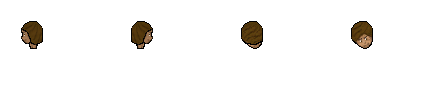
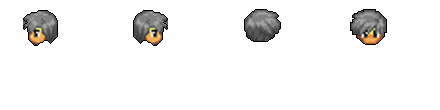
animations and sprites added

diff --git a/game/models/duke.js b/game/models/duke.js
@@ -4,9 +4,9 @@ function Duke(game){
 	this.headSprite = null;
 	this.torsoSprite = null;
 	this.legsSprite = null;
-	this.head = 'singleHead';
-	this.torso = 'singleTorso';
-	this.legs = 'singleLegs';
+	this.head = 'normalHead';
+	this.torso = 'normalTorso';
+	this.legs = 'normalLegs';
 	this.speed = 150;
 	this.facing = 0; //Left=0; Right=1; Up=2; Down=3
 	this.sprite = null;
@@ -54,7 +54,7 @@ Duke.prototype.handleKeyDown = function() {
 		this.torsoSprite.play('normalTorsoUp');
 		this.legsSprite.play('normalLegsUp');
 	}
-	if (this.game.cursors.down.isDown){
+	else if (this.game.cursors.down.isDown){
 		this.facing = 3;
 		this.isMoving = true;
 
@@ -67,7 +67,7 @@ Duke.prototype.handleKeyDown = function() {
 		this.torsoSprite.play('normalTorsoDown');
 		this.legsSprite.play('normalLegsDown');
 	}
-	if (this.game.cursors.left.isDown){
+	else if (this.game.cursors.left.isDown){
 		this.facing = 0;
 		this.isMoving = true;
 
@@ -80,7 +80,7 @@ Duke.prototype.handleKeyDown = function() {
 		this.torsoSprite.play('normalTorsoLeft');
 		this.legsSprite.play('normalLegsLeft');
 	}
-	if (this.game.cursors.right.isDown){
+	else if (this.game.cursors.right.isDown){
 		this.facing = 1;
 		this.isMoving = true;
 
@@ -92,21 +92,21 @@ Duke.prototype.handleKeyDown = function() {
 		this.headSprite.play('normalHeadRight');
 		this.torsoSprite.play('normalTorsoRight');
 		this.legsSprite.play('normalLegsRight');
-	} if (!this.isMoving) {
-		this.headSprite.animations.stop();
-		this.torsoSprite.animations.stop();
-		this.legsSprite.animations.stop();
-
+	} else if (!this.isMoving) {
+		// this.headSprite.animations.stop();
+		// this.torsoSprite.animations.stop();
+		// this.legsSprite.animations.stop();
+		//Left=0; Right=1; Up=2; Down=3
 		switch (this.facing) {
 			case 0:
 				this.headSprite.frame = 0;
-				this.torsoSprite.frame = 0;
-				this.legsSprite.frame = 0;
+				this.torsoSprite.frame = 9;
+				this.legsSprite.frame = 9;
 				break;
 			case 1:
 				this.headSprite.frame = 1;
-				this.torsoSprite.frame = 0;
-				this.legsSprite.frame = 0;
+				this.torsoSprite.frame = 3;
+				this.legsSprite.frame = 3;
 				break;
 			case 2:
 				this.headSprite.frame = 2;
@@ -115,8 +115,8 @@ Duke.prototype.handleKeyDown = function() {
 				break;
 			case 3:
 				this.headSprite.frame = 3;
-				this.torsoSprite.frame = 0;
-				this.legsSprite.frame = 0;
+				this.torsoSprite.frame = 6;
+				this.legsSprite.frame = 6;
 				break;
 			default:
 		}
@@ -160,35 +160,35 @@ Duke.prototype.render = function(){
 	this.colliderSprite.immovable = true;
 	this.colliderSprite.body.collideWorldBounds = true;
 
-	//this.headSprite.animations.add('normalHeadLeft', [0], 10, true);
-	//this.headSprite.animations.add('normalHeadRight', [1], 10, true);
-	//this.headSprite.animations.add('normalHeadUp', [2], 10, true);
-	//this.headSprite.animations.add('normalHeadDown', [3], 10, true);
+	this.headSprite.animations.add('normalHeadLeft', [0], 1, true);
+	this.headSprite.animations.add('normalHeadRight', [1], 1, true);
+	this.headSprite.animations.add('normalHeadUp', [2], 1, true);
+	this.headSprite.animations.add('normalHeadDown', [3], 1, true);
 
-	//this.torsoSprite.animations.add('normalTorsoLeft', [1, 0, 2, 0], 10, true);
-	//this.torsoSprite.animations.add('normalTorsoRight', [1, 0, 2, 0], 10, true);
-	//this.torsoSprite.animations.add('normalTorsoUp', [1, 0, 2, 0], 10, true);
-	//this.torsoSprite.animations.add('normalTorsoDown', [1, 0, 2, 0], 10, true);
+	this.torsoSprite.animations.add('normalTorsoLeft', [9, 10, 9, 11], 1, true);
+	this.torsoSprite.animations.add('normalTorsoRight', [3, 4, 3, 5], 1, true);
+	this.torsoSprite.animations.add('normalTorsoUp', [0, 1, 0, 2], 1, true);
+	this.torsoSprite.animations.add('normalTorsoDown', [6, 7, 6, 8], 1, true);
 
-	//this.legsSprite.animations.add('normalLegsLeft', [1, 0, 2, 0], 10, true);
-	//this.legsSprite.animations.add('normalLegsRight', [1, 0, 2, 0], 10, true);
-	//this.legsSprite.animations.add('normalLegsUp', [1, 0, 2, 0], 10, true);
-	//this.legsSprite.animations.add('normalLegsDown', [1, 0, 2, 0], 10, true);
+	this.legsSprite.animations.add('normalLegsLeft', [9, 10, 9, 11], 1, true);
+	this.legsSprite.animations.add('normalLegsRight', [3, 4, 3, 5], 1, true);
+	this.legsSprite.animations.add('normalLegsUp', [0, 1, 0, 2], 1, true);
+	this.legsSprite.animations.add('normalLegsDown', [6, 7, 6, 8], 1, true);
 
-	this.headSprite.animations.add('normalHeadLeft', [0], 10, true);
-	this.headSprite.animations.add('normalHeadRight', [0], 10, true);
-	this.headSprite.animations.add('normalHeadUp', [0], 10, true);
-	this.headSprite.animations.add('normalHeadDown', [0], 10, true);
+	// this.headSprite.animations.add('normalHeadLeft', [0], 10, true);
+	// this.headSprite.animations.add('normalHeadRight', [0], 10, true);
+	// this.headSprite.animations.add('normalHeadUp', [0], 10, true);
+	// this.headSprite.animations.add('normalHeadDown', [0], 10, true);
 
-	this.torsoSprite.animations.add('normalTorsoLeft', [0], 10, true);
-	this.torsoSprite.animations.add('normalTorsoRight', [0], 10, true);
-	this.torsoSprite.animations.add('normalTorsoUp', [0], 10, true);
-	this.torsoSprite.animations.add('normalTorsoDown', [0], 10, true);
+	// this.torsoSprite.animations.add('normalTorsoLeft', [0], 10, true);
+	// this.torsoSprite.animations.add('normalTorsoRight', [0], 10, true);
+	// this.torsoSprite.animations.add('normalTorsoUp', [0], 10, true);
+	// this.torsoSprite.animations.add('normalTorsoDown', [0], 10, true);
 
-	this.legsSprite.animations.add('normalLegsLeft', [0], 10, true);
-	this.legsSprite.animations.add('normalLegsRight', [0], 10, true);
-	this.legsSprite.animations.add('normalLegsUp', [0], 10, true);
-	this.legsSprite.animations.add('normalLegsDown', [0], 10, true);
+	// this.legsSprite.animations.add('normalLegsLeft', [0], 10, true);
+	// this.legsSprite.animations.add('normalLegsRight', [0], 10, true);
+	// this.legsSprite.animations.add('normalLegsUp', [0], 10, true);
+	// this.legsSprite.animations.add('normalLegsDown', [0], 10, true);
 
 	this.colliderSprite.anchor.setTo(0.5, 0.5);
 	this.colliderSprite.x = this.headSprite.x + this.headSprite.width / 2;

diff --git a/game/states/boot.js b/game/states/boot.js
@@ -17,9 +17,9 @@ States.Boot.prototype = {
 		this.game.load = this.game.load.spritesheet('normalHead', 'assets/images/duke/normalHeadSheet.png', 110, 110);
 		this.game.load = this.game.load.spritesheet('normalTorso', 'assets/images/duke/normalTorsoSheet.png', 110, 110);
 		this.game.load = this.game.load.spritesheet('normalLegs', 'assets/images/duke/normalLegsSheet.png', 110, 110);
-		this.game.load = this.game.load.spritesheet('singleHead', 'assets/images/duke/singleHead.png', 110, 110);
-		this.game.load = this.game.load.spritesheet('singleTorso', 'assets/images/duke/singleTorso.png', 110, 110);
-		this.game.load = this.game.load.spritesheet('singleLegs', 'assets/images/duke/singleLegs.png', 110, 110);
+		// this.game.load = this.game.load.spritesheet('singleHead', 'assets/images/duke/singleHead.png', 110, 110);
+		// this.game.load = this.game.load.spritesheet('singleTorso', 'assets/images/duke/singleTorso.png', 110, 110);
+		// this.game.load = this.game.load.spritesheet('singleLegs', 'assets/images/duke/singleLegs.png', 110, 110);
 		
 		this.game.load = this.game.load.spritesheet('dukeCollider', 'assets/images/duke/collider.png');
 
